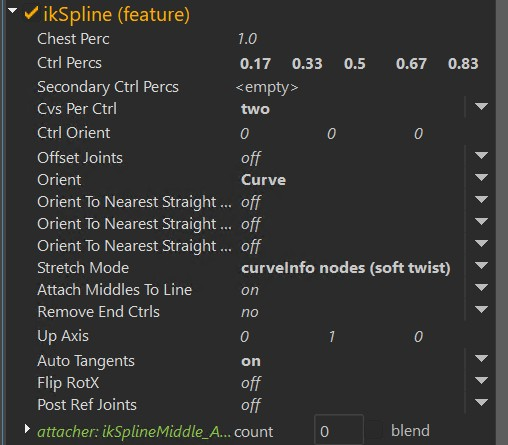
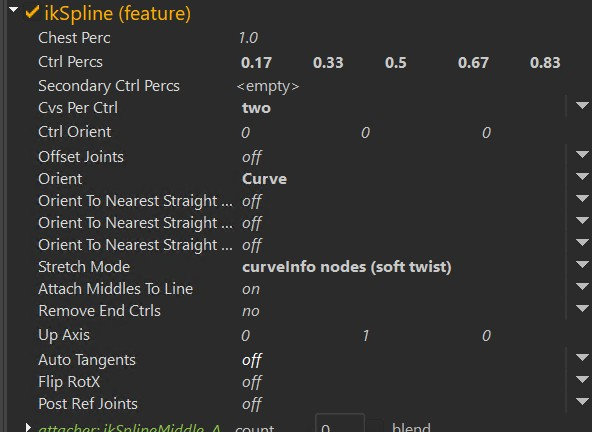
spine auto tangent

diff --git a/kangaroo/docs/puppet/puppetLimbs.md b/kangaroo/docs/puppet/puppetLimbs.md
@@ -172,21 +172,28 @@ for example 0.8 - the top ctrl is then called *spineChestIk_ctrl*, and the lower
 *stretchMode* behaves the same as on [fkSplines](#fksplinestretchmode)
 
 
-#### iKSpline - cable
-Very often we use the Spine limb for cables 
+#### iKSpline - cables/straps
+Very often we use the Spine limb for cables/straps 
 ![Alt text](../images/puppetLimb_cable.gif)  
 See the image below for how attributes were set in the gif above:   
-![Alt text](../images/puppetLimbs_spineCableAttributes.jpg)  
+![Alt text](../images/puppetLimbs_spineCableAttributes.jpg)   
+The green rounded arrow ctrls that you see in the gif above are the Tangent Ctrls. 
+They are created automatically and just need to be turned on with the visibility attributes on the end ctrls.
 
-!!! warning
-    Watch out with the **Auto Tangents**! It can give great result, but since it's doing some aiming with automatic 
-    polevectors, it can get unstable in some cases.
-
-Other tips on cables:
+Other tips on cables/straps:
 
 - Very often you'll want to activate the **Remove End Ctrls**, because you can still use the attachers on them without the ctrls
-- We've used the *Auto Tangent* in this example, but try first without, since it might be good enough already.
 - **Attach Middles To Line** is always activated by default. But often you don't want to have the ctrls follow the outer points.
+- If you want the cables/straps extra smooth, try **Auto Tangent** as shown next topic
+
+
+#### ikSpline - Auto Tangent
+*Auto Tangent* tries to keep the curve smoother by aiming to the ctrls.
+![Alt text](../images/puppetLimbs_spineAutoAim.gif)    
+
+!!! warning
+    This is doing some aiming with automatic polevectors, so it can get unstable in some cases. 
+
 
 
 ### Advanced
@@ -205,12 +212,13 @@ Most of it should be self explanatory, except **distribute orientations** deserv
 See how how on the side the cubes of the spine are crashing with each others? It's because the joints
 are just orientating based on the ctrls around them. And the wider the bellies are in relation to their heights,
 the stronger the crashing will be.  
-The solution is *distribute orientations*, which assigns a new orientation to those joints that is blending between
+The solution is **Distribute Orientations**, which assigns a new orientation to those joints that is blending between
 bottom and top ctrls of the spine:  
 ![Alt text](../images/puppetLimbs_distributeRotations.gif)
 !!! tip
     You have two attributes on each squash joint to fine tune that behavior:  
-    ![Alt text](../images/puppetLimbs_distributeRotationsAttributes.jpg)
+    ![Alt text](../images/puppetLimbs_distributeRotationsAttributes.jpg)  
+    For saving those you'll have to do a [python function](../python.md#simple-way-of-adding-a-function).
 
 #### skinning the squash joints 
 If you already skinned the character, and you turned on the *Advanced* checkbox later, you can easily transfer the 
